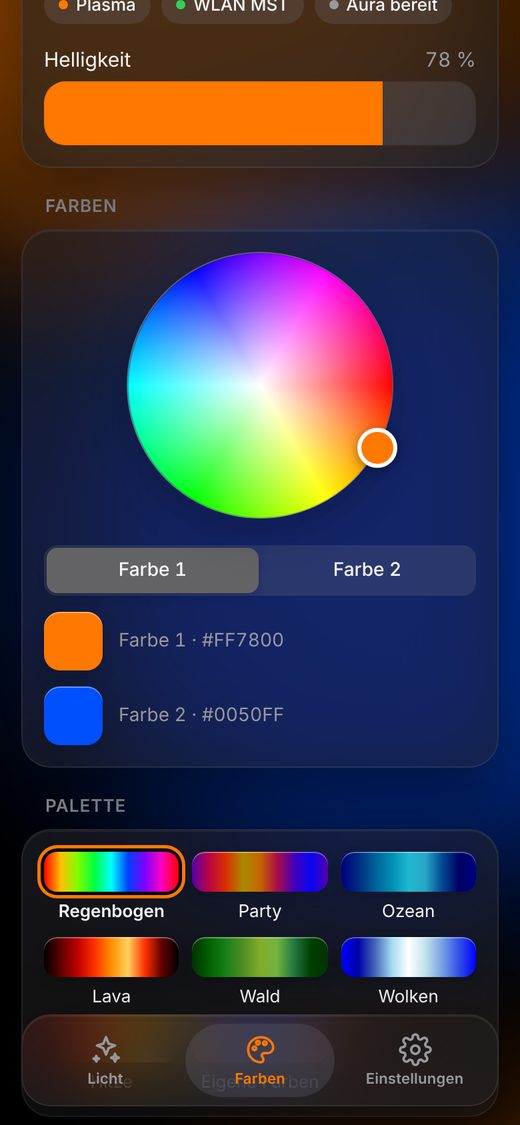
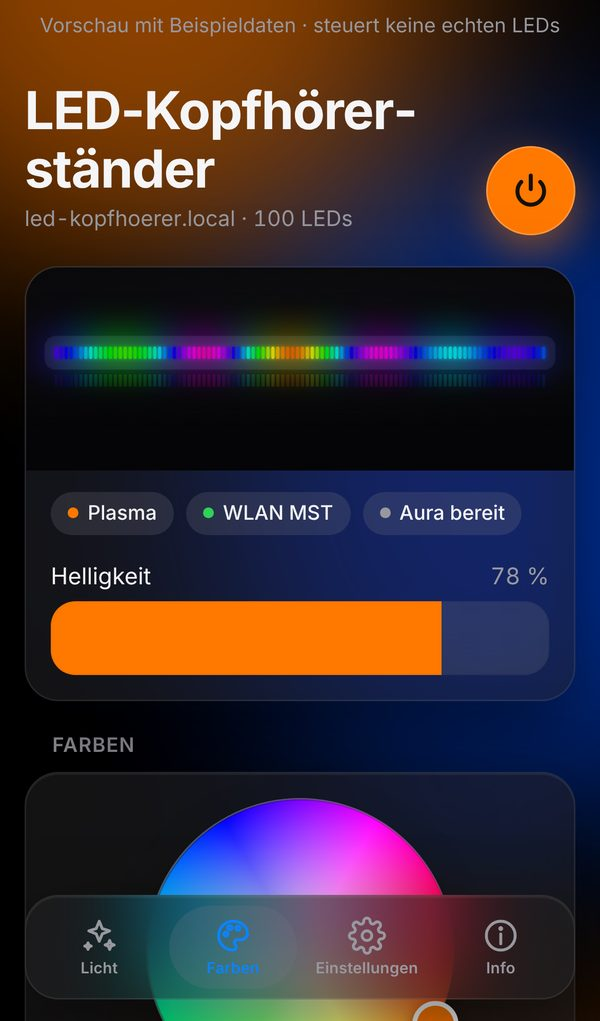
Doku: neue Bilder der Weboberflaeche (Licht, Farben, Einstellungen, Wartung, Info, PC)
Claude-Session: https://claude.ai/code/session_01GN2BkRmabsgeYyDYiBonZ3

diff --git a/README.md b/README.md
@@ -5,11 +5,16 @@ WLAN-Steuerung für die LED-Beleuchtung eines Kopfhörerständers. Ein Waveshare
 <p align="center">
   <img src="docs/images/weboberflaeche-handy-licht.jpg" alt="Seite Licht mit Presets, Tempo und Effekten, heller Modus" width="250">
   <img src="docs/images/weboberflaeche-handy-farben.jpg" alt="Seite Farben mit Farbrad und Paletten, dunkler Modus" width="250">
-  <img src="docs/images/weboberflaeche-handy-einstellungen.jpg" alt="Seite Einstellungen mit Aura, Stromgrenze und Gerätedaten" width="250">
+  <img src="docs/images/weboberflaeche-handy-einstellungen.jpg" alt="Seite Einstellungen mit Aura, PC-Sync und Stromgrenze, heller Modus" width="250">
 </p>
 
 <p align="center">
-  <img src="docs/images/weboberflaeche-pc-dunkel.jpg" alt="Weboberfläche am PC, Seite Licht mit allen Effekten" width="800">
+  <img src="docs/images/weboberflaeche-handy-wartung.jpg" alt="Einstellungen, Gruppe Wartung mit Firmware-Update, Selbsttest, WLAN und Werkseinstellungen, dunkler Modus" width="250">
+  <img src="docs/images/weboberflaeche-handy-info.jpg" alt="Seite Info mit Firmware, Seriennummer und letztem Selbsttest" width="250">
+</p>
+
+<p align="center">
+  <img src="docs/images/weboberflaeche-pc-dunkel.jpg" alt="Weboberfläche am PC, Seite Licht im dunklen Modus" width="800">
 </p>
 
 Die Weboberfläche hat vier Seiten, zwischen denen die Leiste unten umschaltet: **Licht** (Presets, Effekte, Tempo), **Farben** (Farbrad, Paletten), **Einstellungen** (ASUS Aura, PC-Sync, Matter, Stromgrenze, Display-Drehung mit „Auto“ über den Lagesensor, Nachtmodus, Zugang, Wartung mit Firmware-Update, Selbsttest, WLAN und Werkseinstellungen) und **Info** (Gerätedaten mit Firmware-Version, Seriennummer und letztem Selbsttest, Über dieses Projekt: Copyright, Lizenz, Herkunft, Quelltext). Kopfzeile mit Ein/Aus, Live-Streifen und Helligkeit bleiben auf jeder Seite oben. Jede Seite hat eine eigene Adresse (`#licht`, `#farben`, `#einst`, `#info`), und der Browser merkt sich die zuletzt offene.
